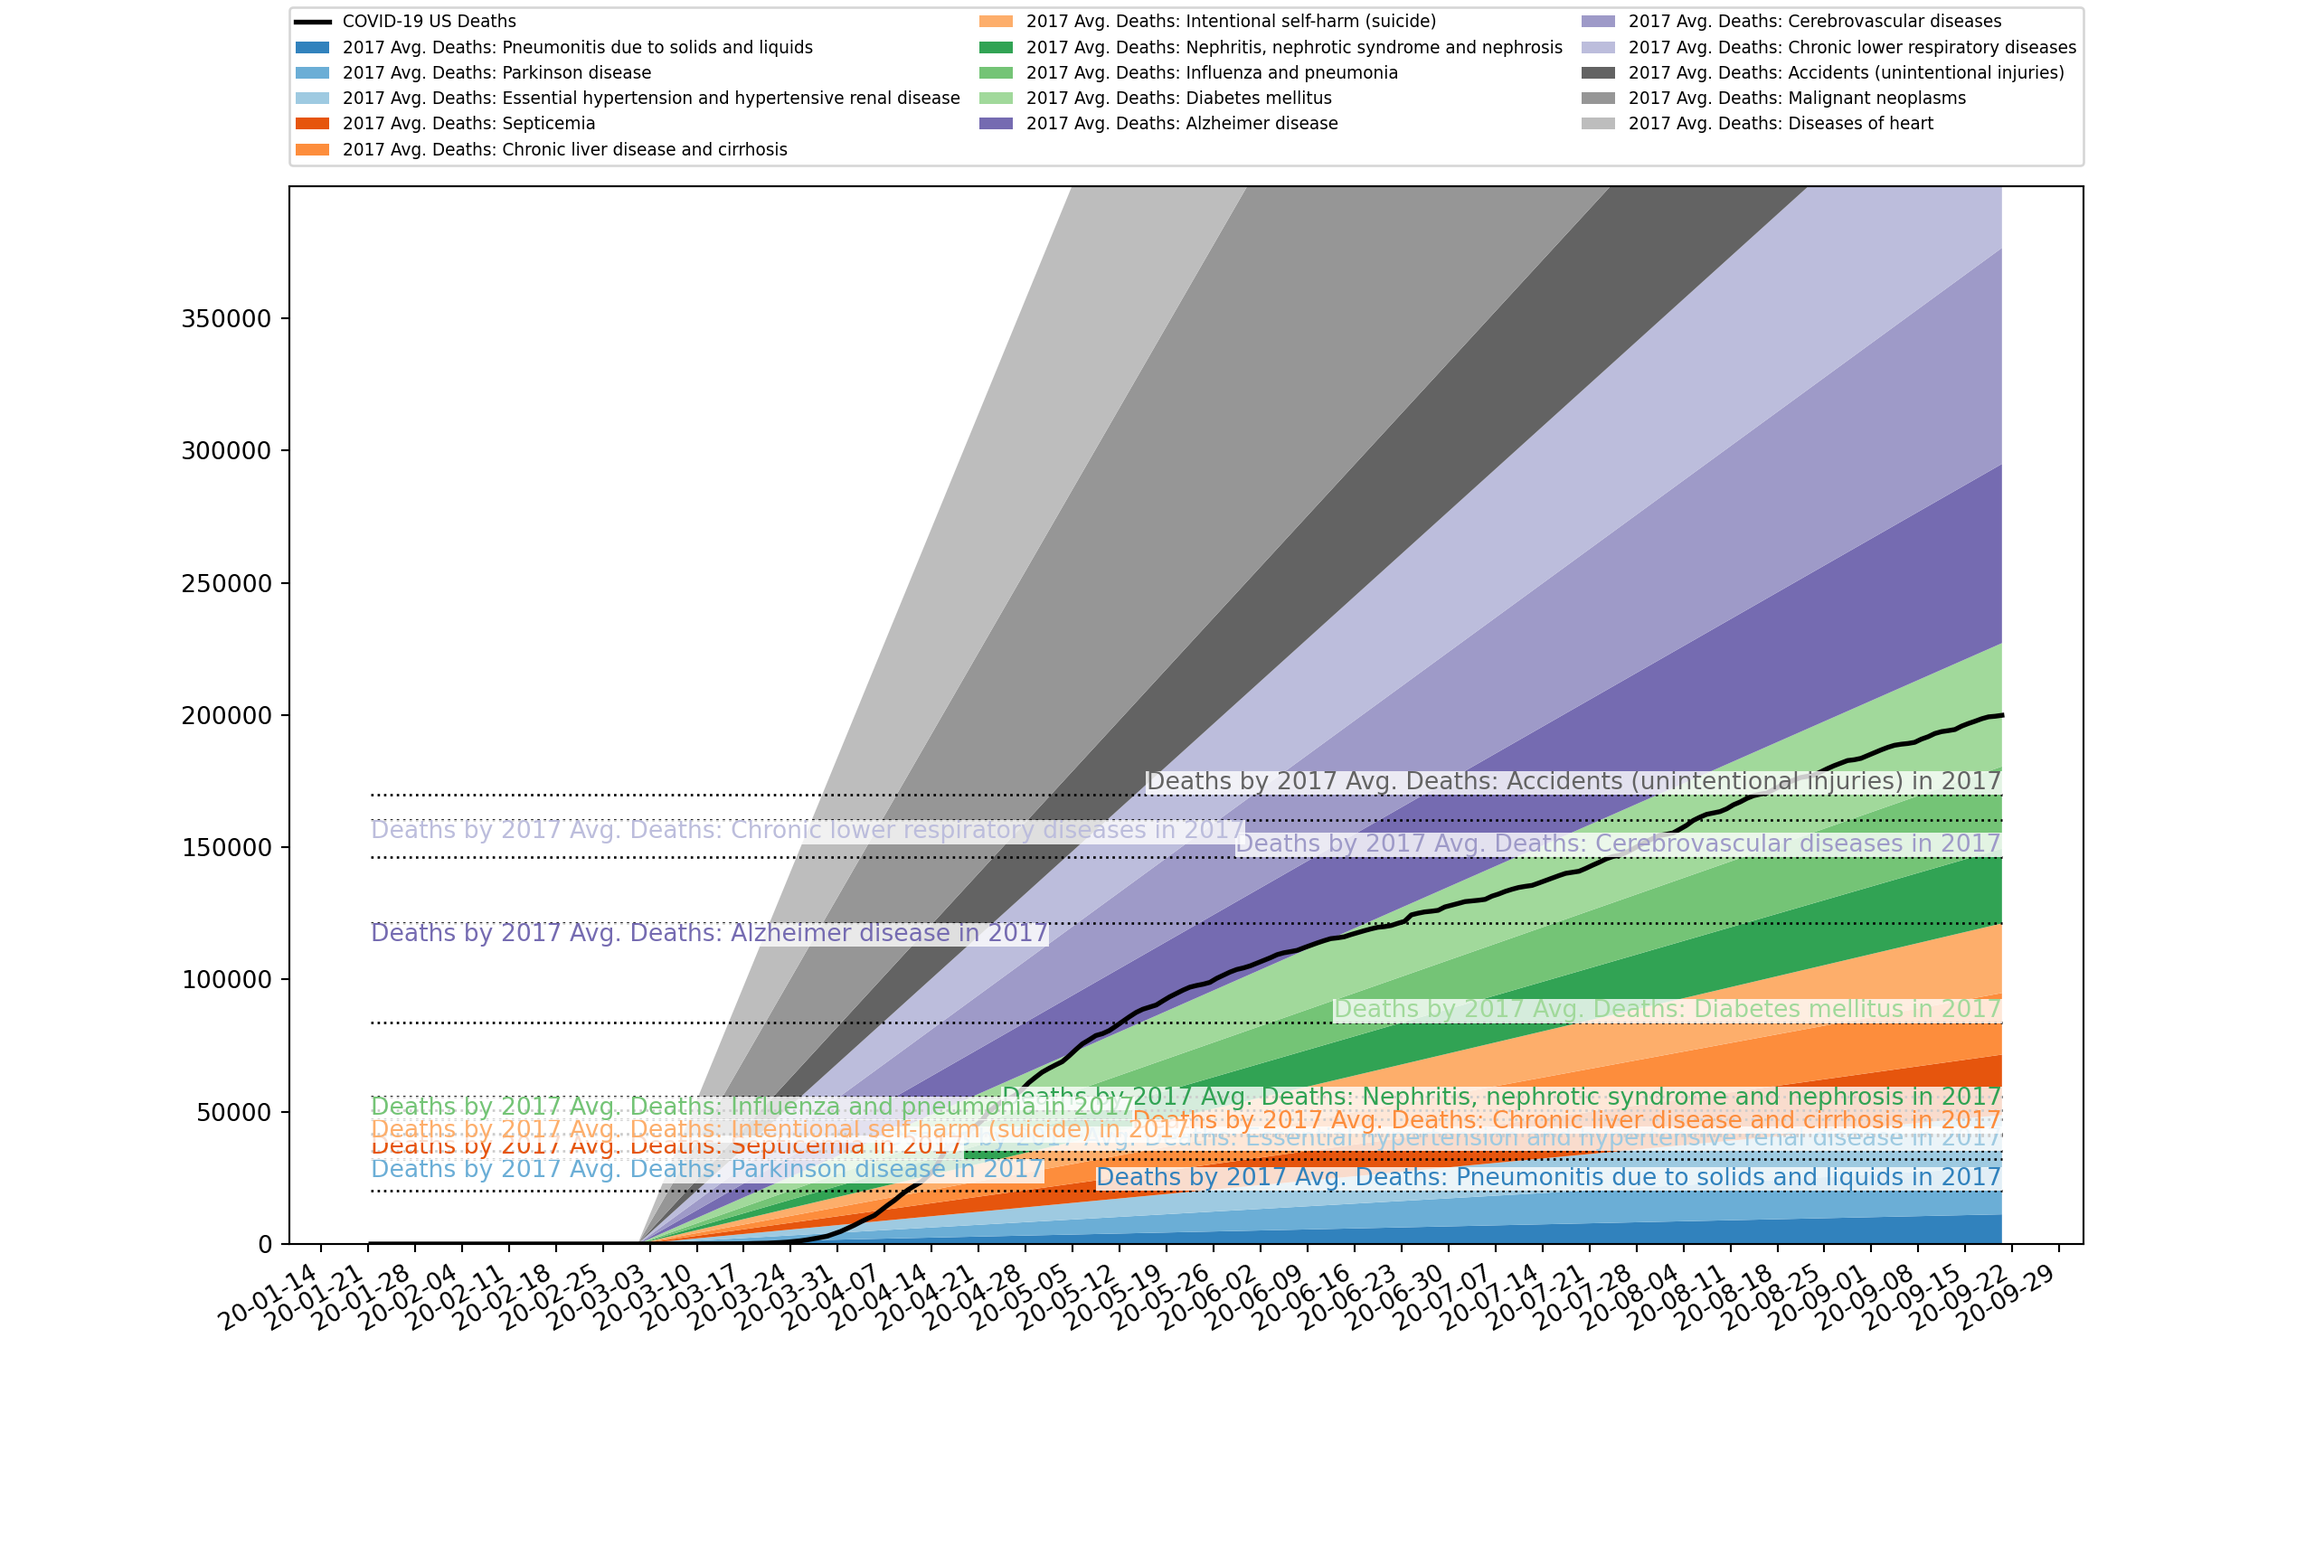
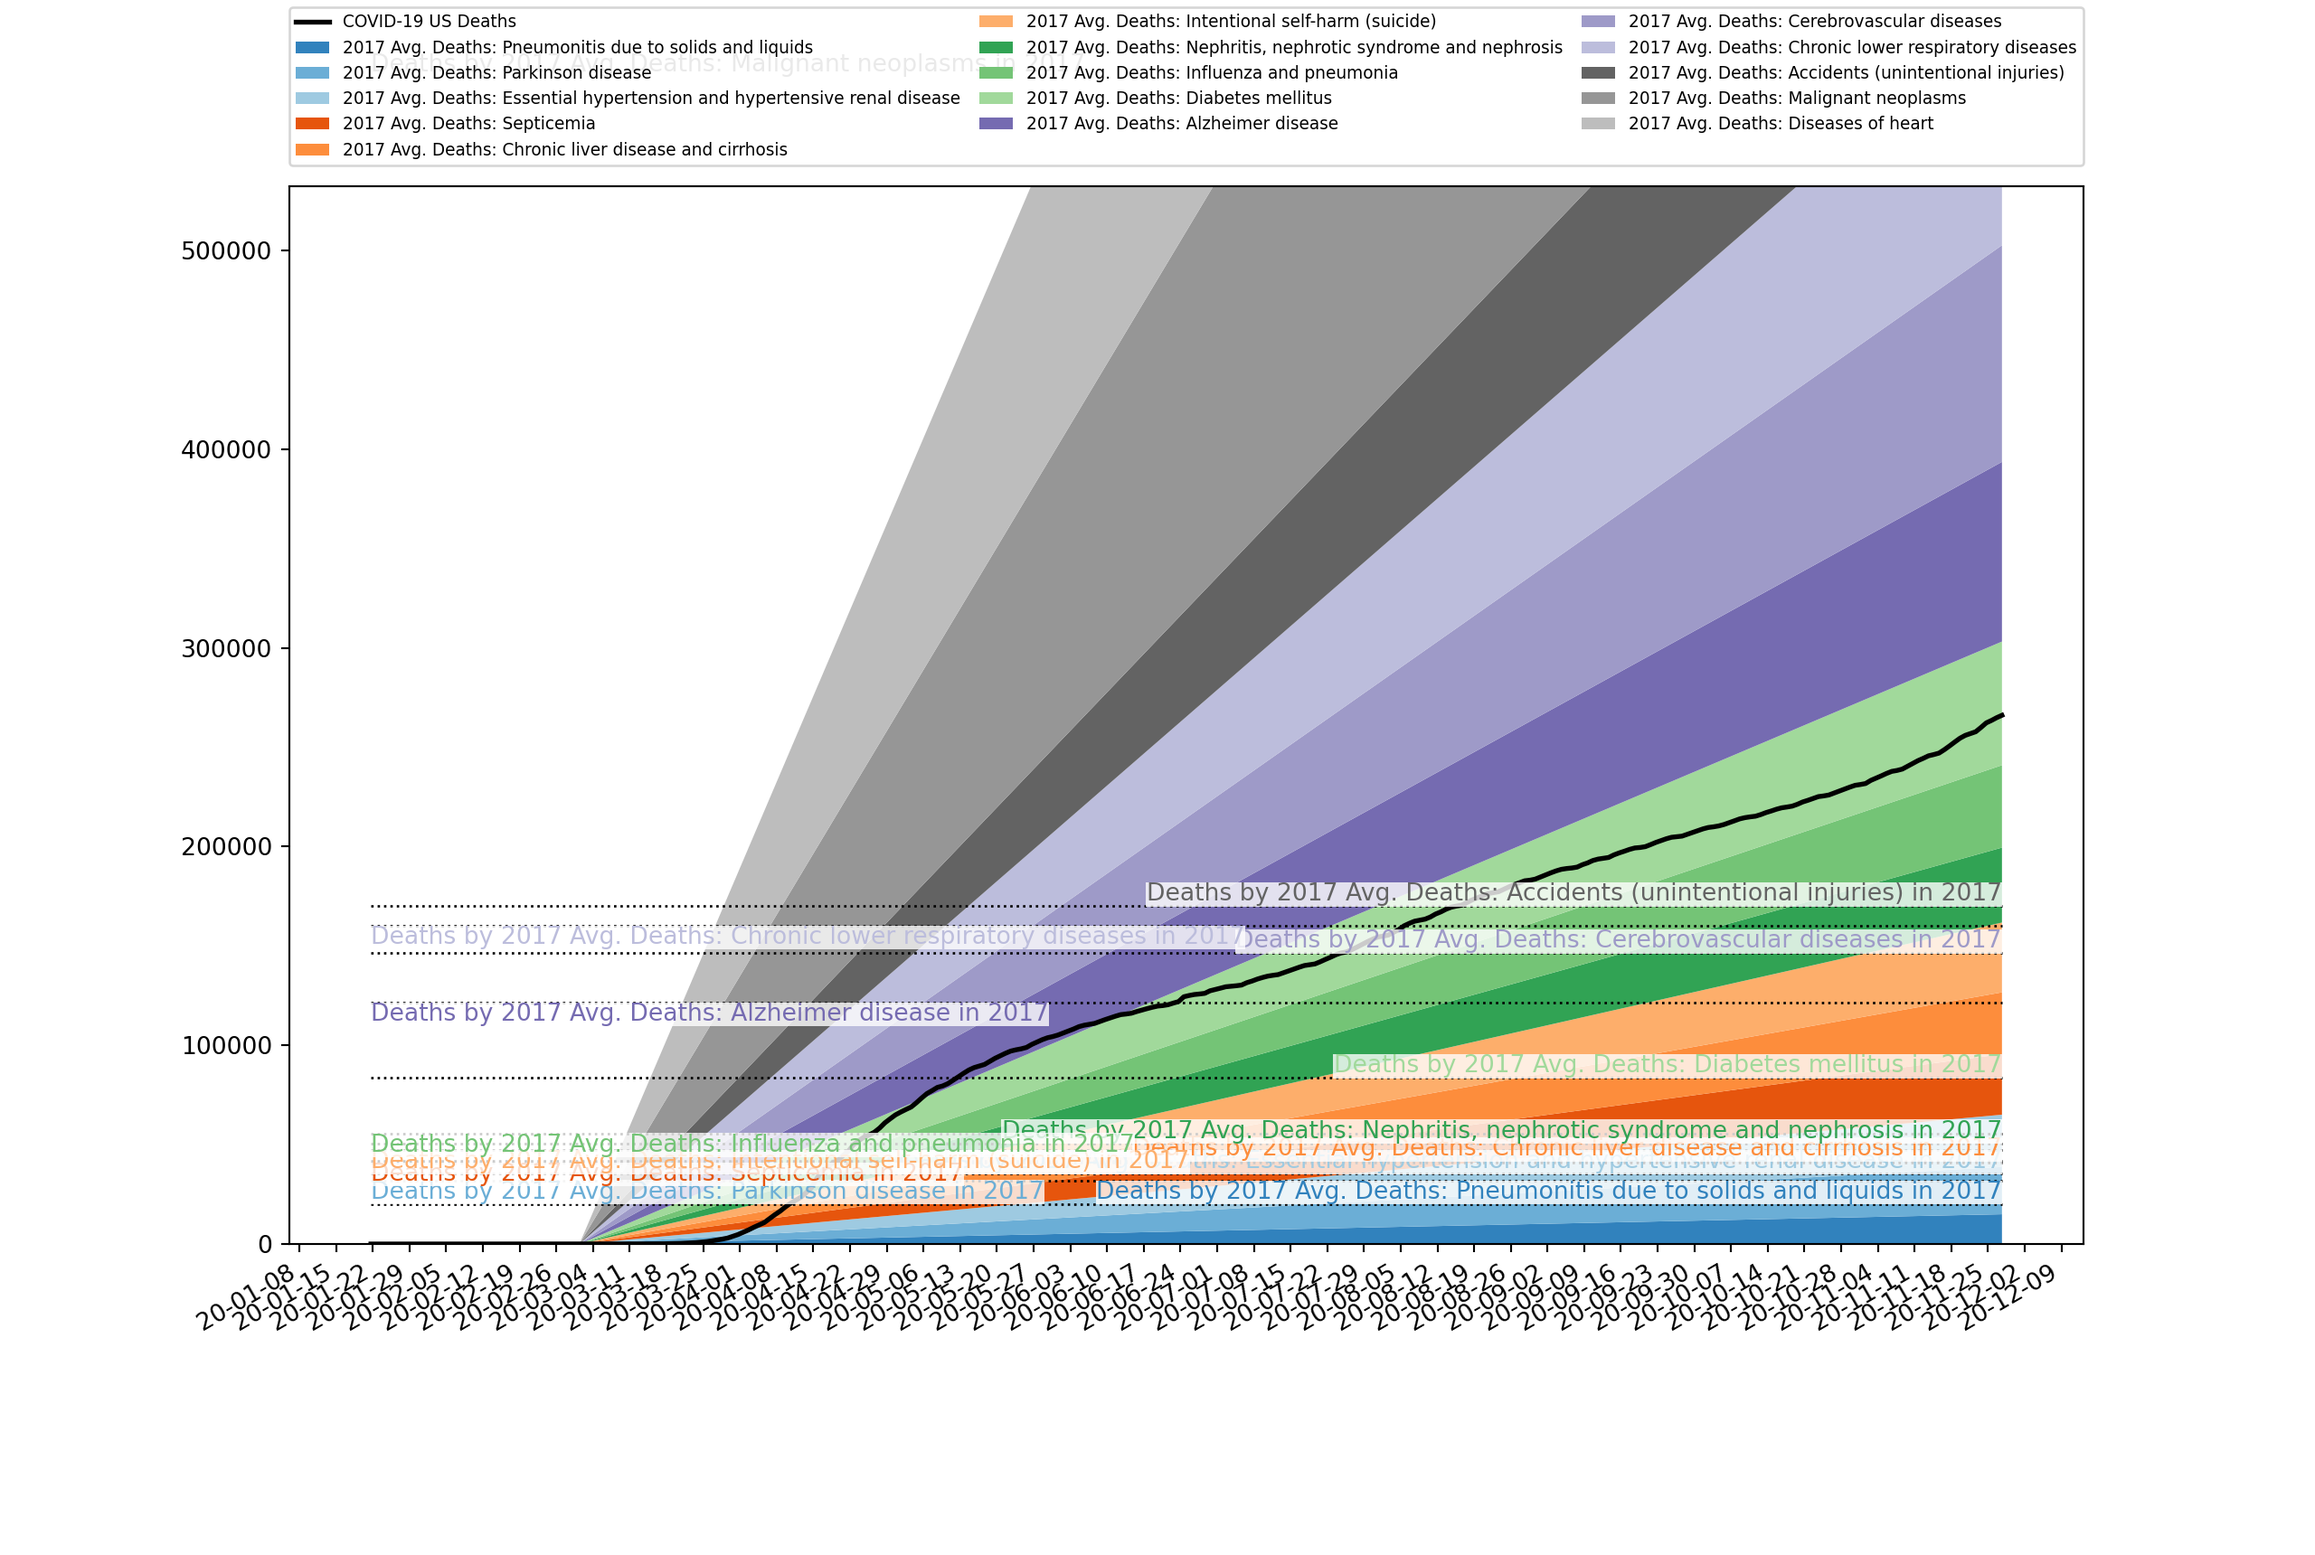
Update data

diff --git a/csse_covid_19_data/csse_covid_19_daily_reports/analyze.py b/csse_covid_19_data/csse_covid_19_daily_reports/analyze.py
@@ -17,6 +17,7 @@ row_cls_map = {
     tuple('\ufeffFIPS,Admin2,Province_State,Country_Region,Last_Update,Lat,Long_,Confirmed,Deaths,Recovered,Active,Combined_Key'.split(',')): RowC,
     tuple('FIPS,Admin2,Province_State,Country_Region,Last_Update,Lat,Long_,Confirmed,Deaths,Recovered,Active,Combined_Key'.split(',')): RowC,
     ('FIPS', 'Admin2', 'Province_State', 'Country_Region', 'Last_Update', 'Lat', 'Long_', 'Confirmed', 'Deaths', 'Recovered', 'Active', 'Combined_Key', 'Incidence_Rate', 'Case-Fatality_Ratio'): RowD,
+    ('FIPS', 'Admin2', 'Province_State', 'Country_Region', 'Last_Update', 'Lat', 'Long_', 'Confirmed', 'Deaths', 'Recovered', 'Active', 'Combined_Key', 'Incident_Rate', 'Case_Fatality_Ratio'): RowD,
 }
 
 def readrows():

diff --git a/csse_covid_19_data/csse_covid_19_daily_reports/doplot-non-cumulative.py b/csse_covid_19_data/csse_covid_19_daily_reports/doplot-non-cumulative.py
@@ -69,4 +69,4 @@ plt.gcf().autofmt_xdate()
 plt.gca().set_ylim([0, covid_rows[-1] * 2])
 
 fig.savefig("non-cumulative.png", dpi=my_dpi * 2)
-plt.show()
+# plt.show()

diff --git a/csse_covid_19_data/csse_covid_19_daily_reports/doplot-cumulative.py b/csse_covid_19_data/csse_covid_19_daily_reports/doplot-cumulative.py
@@ -97,4 +97,4 @@ plt.gcf().autofmt_xdate()
 plt.gca().set_ylim([0, covid_rows[-1] * 2])
 
 fig.savefig("cumulative.png", dpi=my_dpi * 2)
-plt.show()
+# plt.show()
